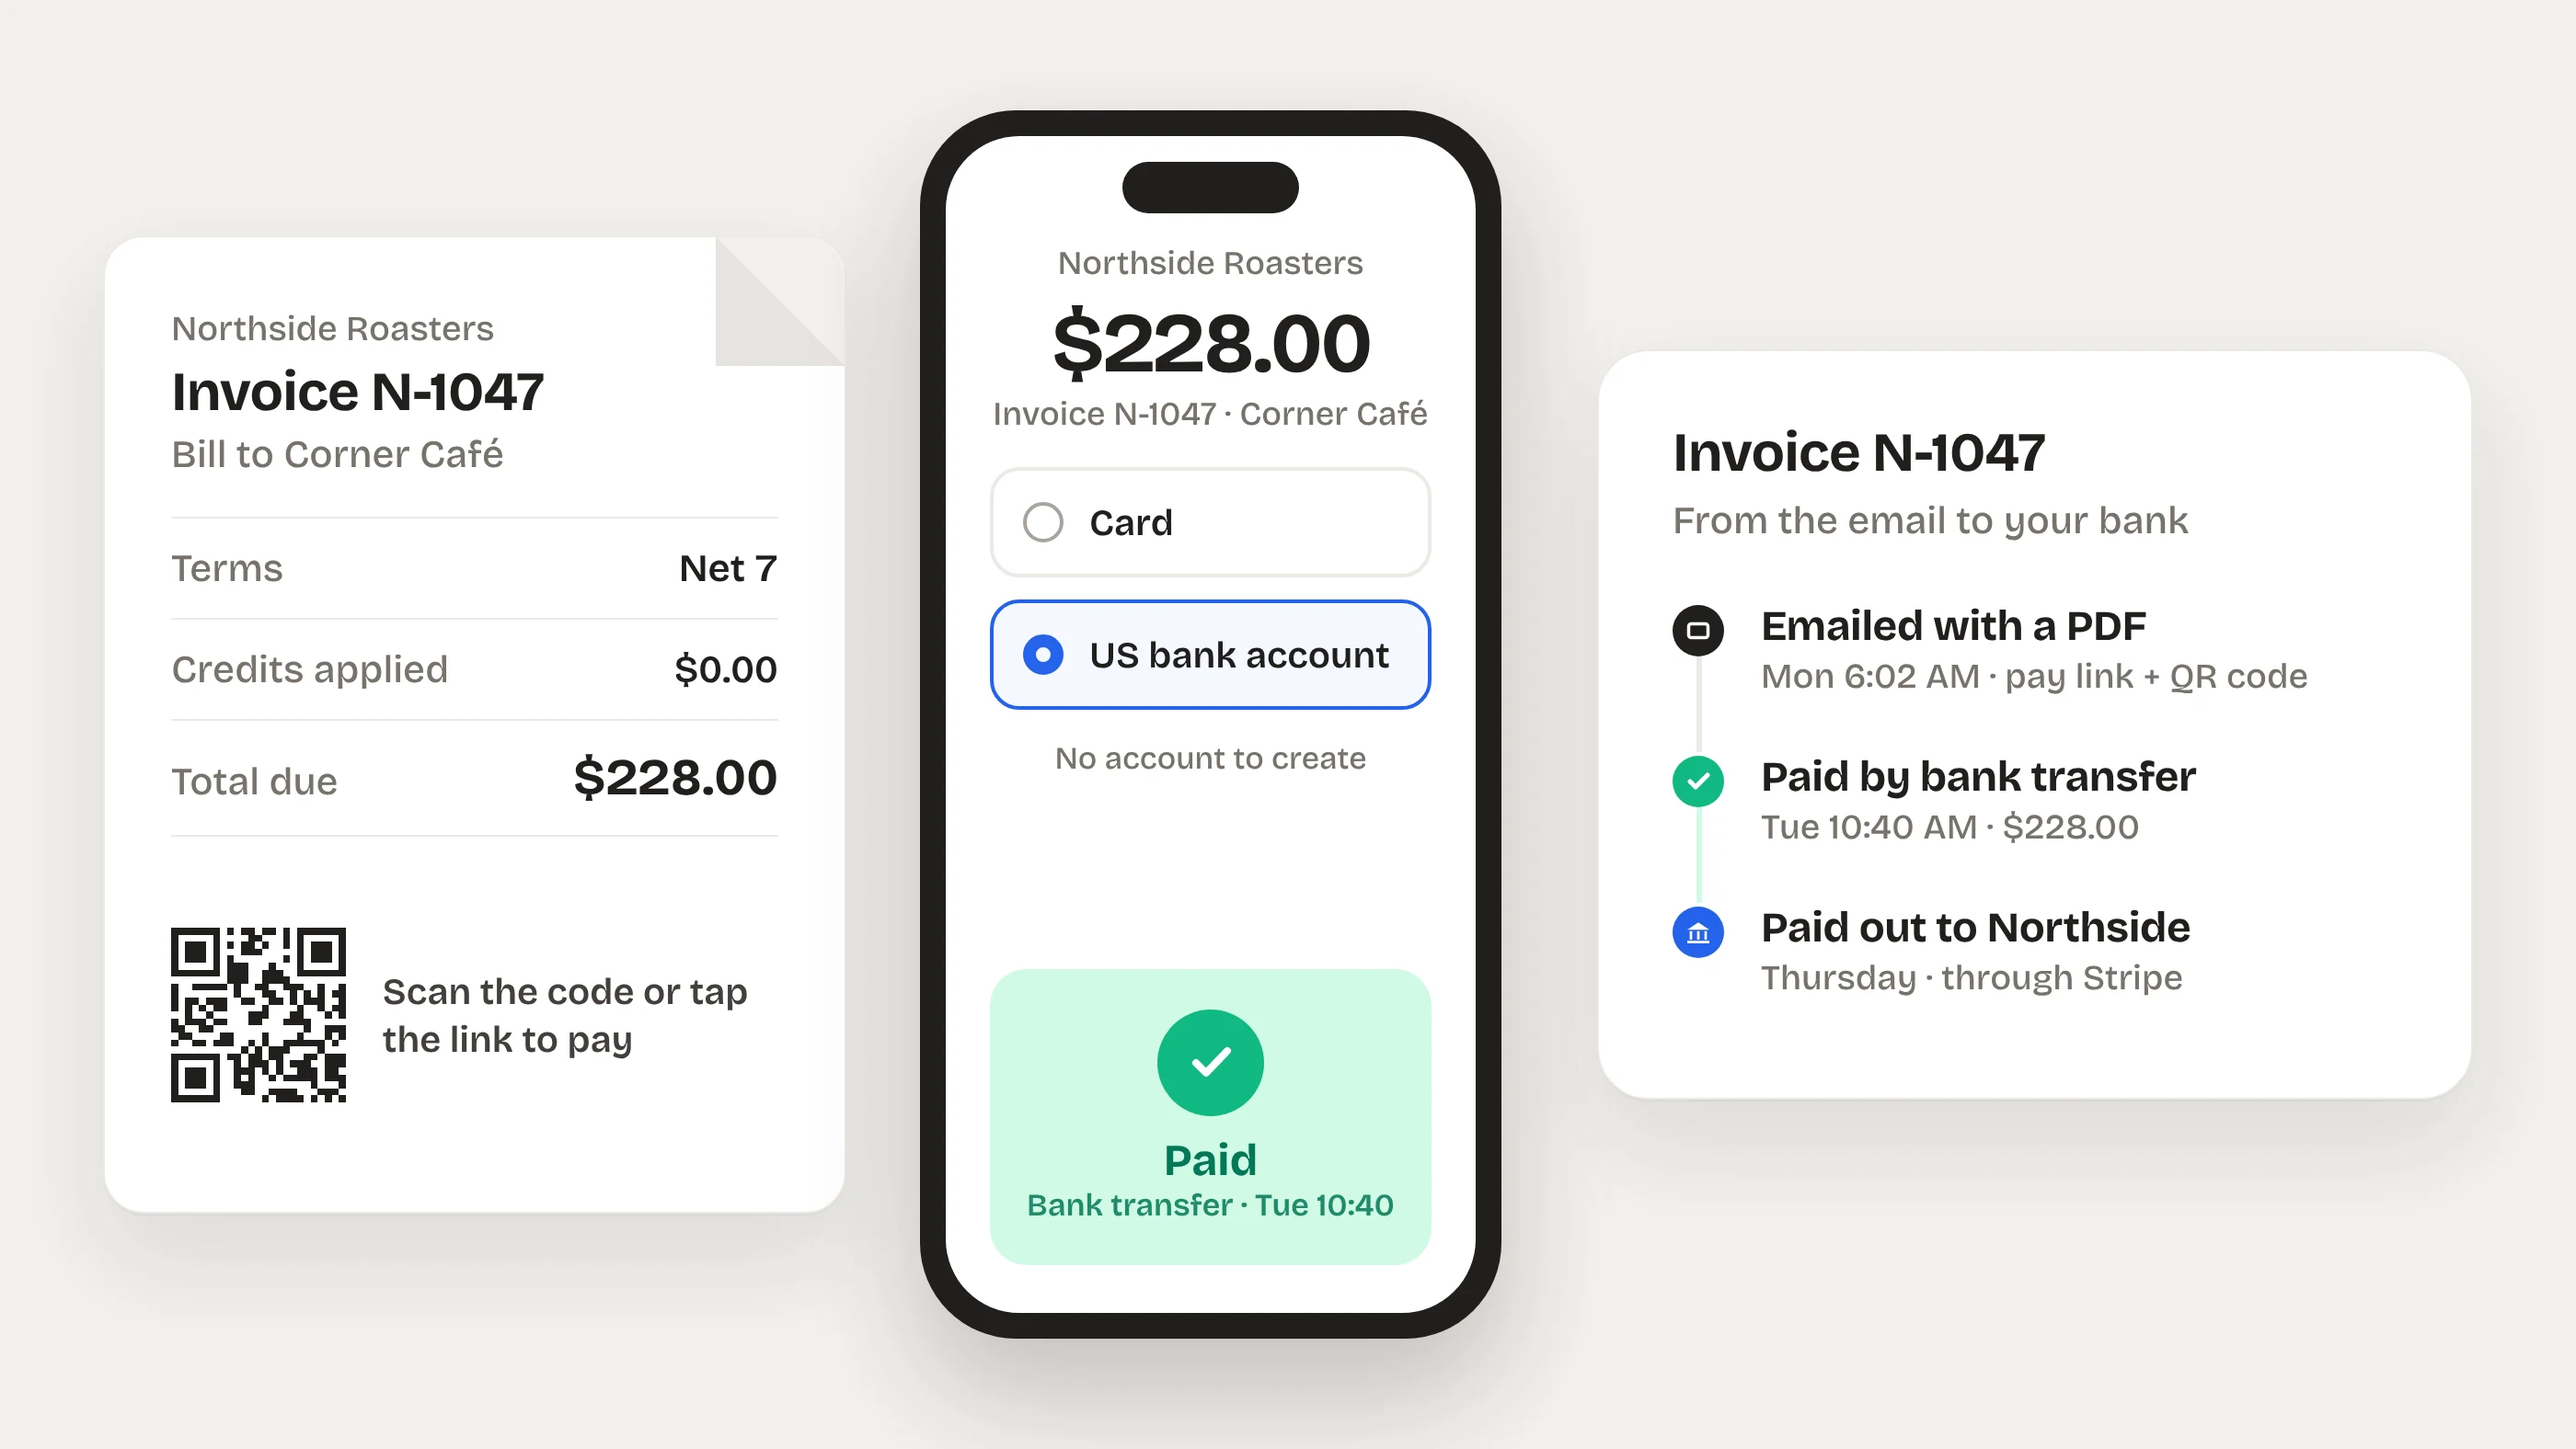
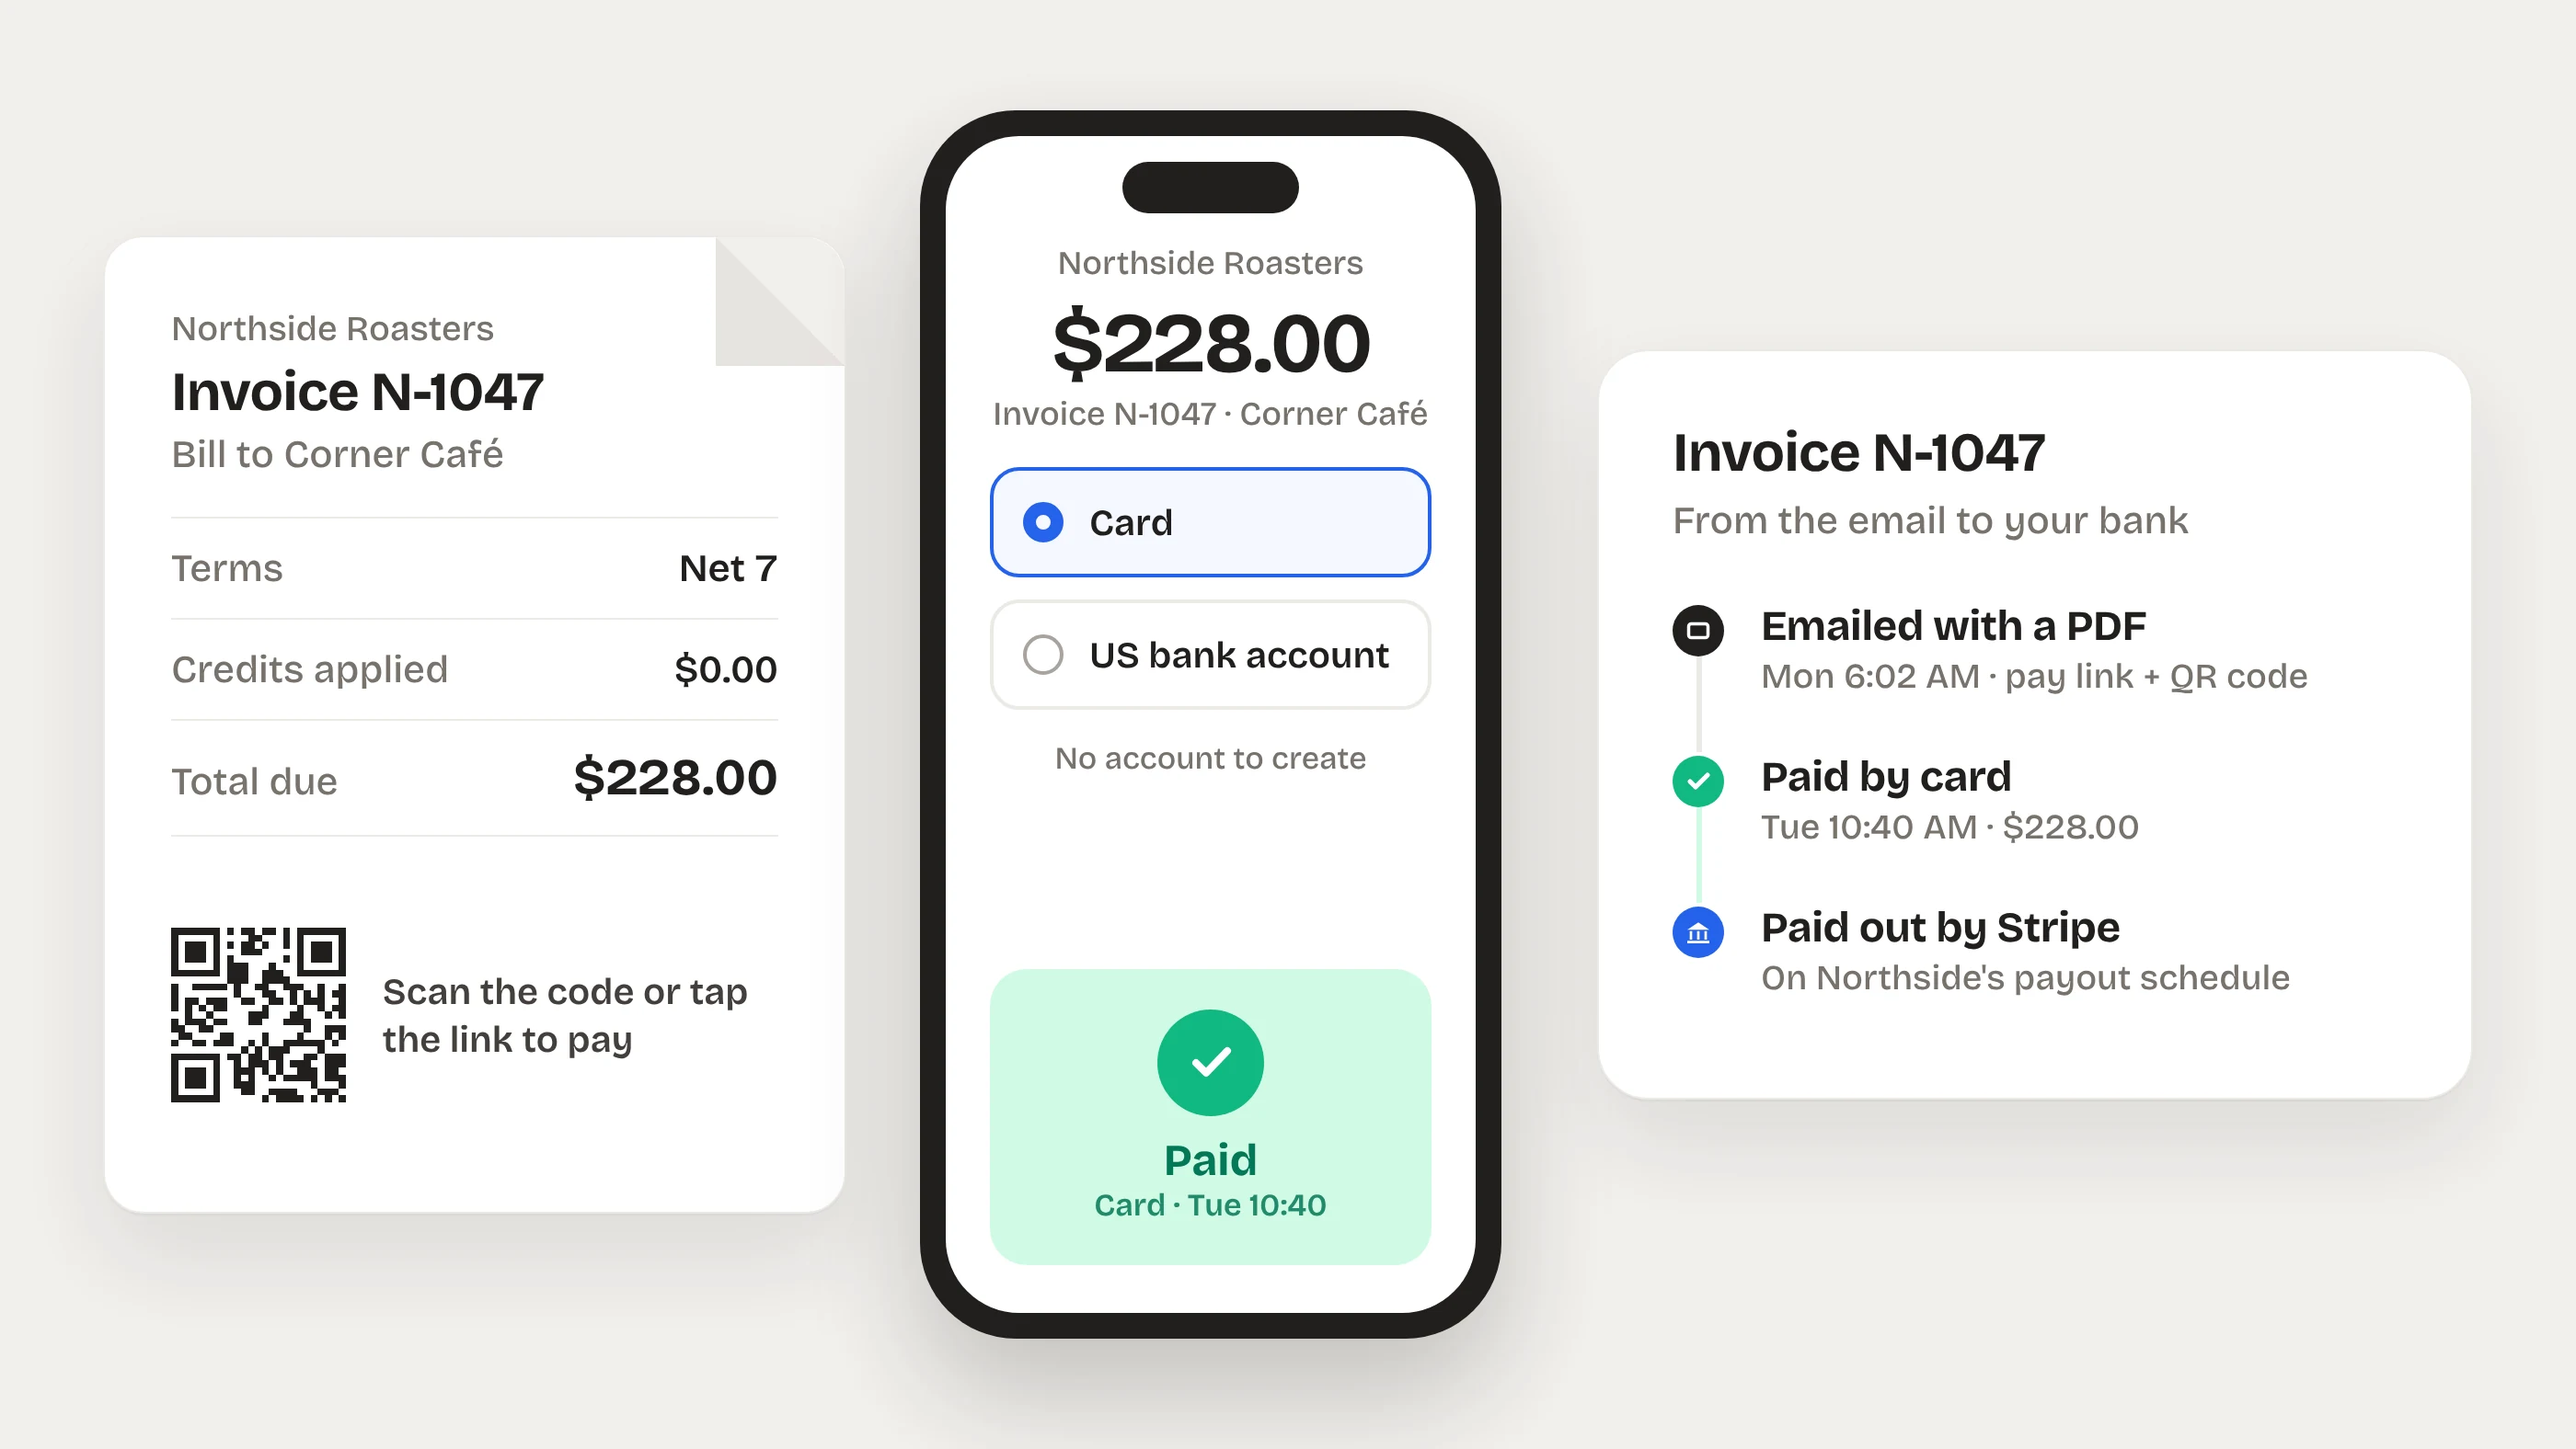
Correct illustration labels and captions against the app
Checked every label and caption against the Fork code:
- Payment drawing: paid by card (instant), payout "by Stripe" with no
  date, and no "opened" step (Fork does not record invoice opens).
- Service visit: charges "ready to invoice" and invoiced after the
  customer's sign-off; the work report (no photos) goes with the invoice.
- Credit drawing: the café uses Report issue, not check-in.
- Orders drawing: no cutoff chip or per-row sources; an email reply
  changes an order rather than creating one.
- Captions and alt text match; the service row no longer says the
  charges come straight from the visit.

Claude-Session: https://claude.ai/code/session_01USCCz28zqJ3KNnFbrNuL97

diff --git a/lib/illustrations.ts b/lib/illustrations.ts
@@ -16,7 +16,8 @@ const size = { width: 2800, height: 1576 }
  * and cups to cafés and services their espresso machines, through one Tuesday morning. Same
  * names, times and totals as the "other side of the counter" story: Van 1's eight stops, the
  * 5:42 drop at Corner Café, Main St's split bag credited $64.00, invoice N-1047 for $228.00
- * paid Tuesday 10:40 AM and paid out Thursday.
+ * paid by card Tuesday 10:40 AM. Labels were checked against the app: no invoice "opened"
+ * step, no payout date, and the visit's charges wait for the customer's sign-off.
  */
 export const SUPPLIER_DAY: Illustration[] = [
   {
@@ -25,7 +26,7 @@ export const SUPPLIER_DAY: Illustration[] = [
     alt: 'Illustration of a delivery route on a city map: two stops done, the van heading to stop 3, and a card listing each stop with its ETA',
     time: '4:50 AM',
     title: 'Van 1 rolls out',
-    text: "Stops in order on real roads, an ETA for each, and every café's delivery notes on its stop.",
+    text: 'Stops in order, an ETA for each, and the delivery notes for every stop.',
   },
   {
     src: '/illustrations/supplier-proof-of-delivery.webp',
@@ -38,35 +39,35 @@ export const SUPPLIER_DAY: Illustration[] = [
   {
     src: '/illustrations/supplier-credit.webp',
     ...size,
-    alt: 'Illustration of a split coffee bag reported at check-in with a photo, and the invoice with a $64 credit applied',
+    alt: 'Illustration of a split coffee bag reported with a photo, and the invoice with a $64 credit applied',
     time: '7:30 AM',
     title: 'A split bag becomes a credit',
-    text: 'The café flags it with a photo when it checks the delivery in. Grant the credit and it comes off the invoice.',
+    text: 'The café reports it with a photo and asks for a credit. Grant it and it comes off the invoice.',
   },
   {
     src: '/illustrations/supplier-orders.webp',
     ...size,
-    alt: "Illustration of orders arriving from the Fork app, email replies and standing orders, merged into one list of Wednesday's orders",
+    alt: "Illustration of orders placed in the Fork app, standing orders and a change made after an email reply, together in one list of Wednesday's orders",
     time: '8:12 AM',
     title: 'Every order in one list',
-    text: 'Orders placed in Fork, replies to emailed confirmations and standing orders, side by side.',
+    text: "Orders placed in Fork and standing orders side by side, with each customer's email replies in their chat.",
   },
   {
     src: '/illustrations/supplier-paid.webp',
     ...size,
-    alt: 'Illustration of an invoice with a QR code, a phone paying $228 by bank transfer, and the timeline from email to payout',
+    alt: 'Illustration of an invoice with a QR code, a phone paying $228 by card, and the steps from the emailed invoice to the Stripe payout',
     time: '10:40 AM',
     title: 'Paid from a link',
     text: 'Card or US bank transfer, from the emailed link or the QR code on the PDF. No account to create. Stripe pays it out to your bank.',
   },
 ]
 
-/** The same morning's service call: a steam wand that would not shut off, fixed, signed and billed. */
+/** The same morning's service call: a steam wand that would not shut off, fixed and signed for. */
 export const SERVICE_VISIT: Illustration = {
   src: '/illustrations/supplier-service-visit.webp',
   ...size,
-  alt: 'Illustration of an espresso machine with a stuck steam wand, and a finished visit with before and after photos, parts and a $132 invoice',
+  alt: 'Illustration of an espresso machine with a stuck steam wand, and a finished visit with before and after photos, parts and $132 in charges',
   time: '9:50 AM',
-  title: 'The visit writes the invoice',
-  text: 'Before and after photos, parts, time on site and a signature. The charges come from the visit.',
+  title: 'Before and after, on the call',
+  text: 'Before and after photos, parts, time on site and a signature, all on the call.',
 }

diff --git a/app/service-providers/page.tsx b/app/service-providers/page.tsx
@@ -204,8 +204,8 @@ export default function ServiceProvidersPage() {
         eyebrow="Proof of work"
         plan="free"
         title="Before and after, signed and billed"
-        lede="Espresso machines too. When a steam wand won't shut off, the photos, the parts and the minutes on site go on the call, the customer signs, and the charges come straight from the visit."
-        bullets={['Before and after photos on every visit', 'Parts and time become the line items', 'The work report goes out with the invoice']}
+        lede="Espresso machines too. When a steam wand won't shut off, the photos, the parts and the minutes on site go on the call, and the customer signs on the technician's phone."
+        bullets={['Before and after photos on every visit', 'Parts go straight onto the charges', 'The work report goes out with the invoice']}
         preview={<IllustrationFrame illustration={SERVICE_VISIT} />}
         previewTitle={SERVICE_VISIT.title}
         frame="none"
